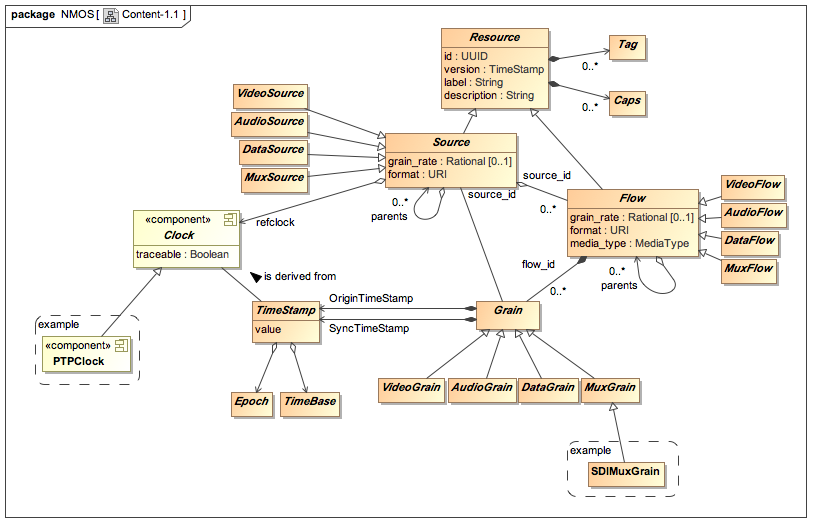
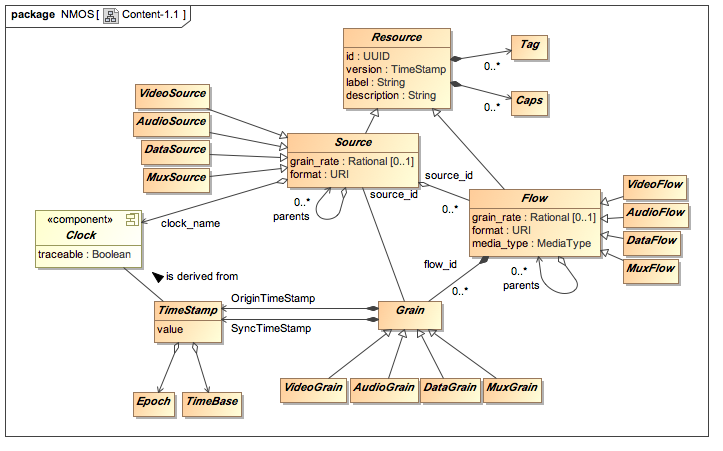
Unnecessary examples removed from diagram, typos corrected.

diff --git a/specifications/ContentModel.md b/specifications/ContentModel.md
@@ -12,14 +12,14 @@ This model is based on the data model documented in JT-NM RA 1.0, with a number 
 - Only elements from the model that are directly about content in NMOS specifications are included (so Node, Device, Sender, Receiver are not included).
 - Currently, "grouping" elements such as SourceGroup and Rendition are not included.
 - The Content element, and related elements, are only informative in the JT-NM RA 1.0 data model and are not included.
-- NMOS specifications are constrained to use a nanosecond TimeBase and PTP/SMPTE Epoch.
-- NMOS specifications constrain a video Grains to correspond to a frame.
+- NMOS specifications are currently constrained to use a nanosecond TimeBase and PTP/SMPTE Epoch.
+- NMOS specifications currently constrain a video Grain to correspond to a frame.
 - A Grain has exactly two TimeStamps (Origin and Sync).
 - Various attributes are defined that are not in the scope of the JT-NM RA.
 - Some attribute values with URI type are constrained to have a "urn:x-nmos:" prefix.
 
 ## Clock
-A Clock is a network component providing a ubiquitous time reference.  It may be **traceable**, meaning it is synchronized to International Atomic Time (TAI); a PTP Clock is traceable.
+A Clock is a network component providing a ubiquitous time reference.  It may be **traceable**, meaning it is synchronized to International Atomic Time (TAI), for example a GPS-locked PTP clock.
 
 ## Epoch
 An Epoch specifies the time that corresponds to the zero value of a Clock.
@@ -108,7 +108,7 @@ Flows shall have the following attributes in addition to those specified by the 
 
 - **source_id**: the UUID identifying the Source that is the logical origin of the Flow.
 - **parents**: UUIDs referencing all of the Flows that were brought together to create this Flow, for example as a result of a vision mixing operation.
-- **format**: a URI starting with "urn:x-nmos:format:", followed by "video", "audio", "data", or "mux", according to the type of Flow.  This may be followed by a suffix indicating a more specific type, e.g. "urn:x-nmos:format:video.raw".
+- **format**: a URI starting with "urn:x-nmos:format:", followed by "video", "audio", "data", or "mux", according to the type of Flow.
 
 Flows may have the following optional attributes:
 
